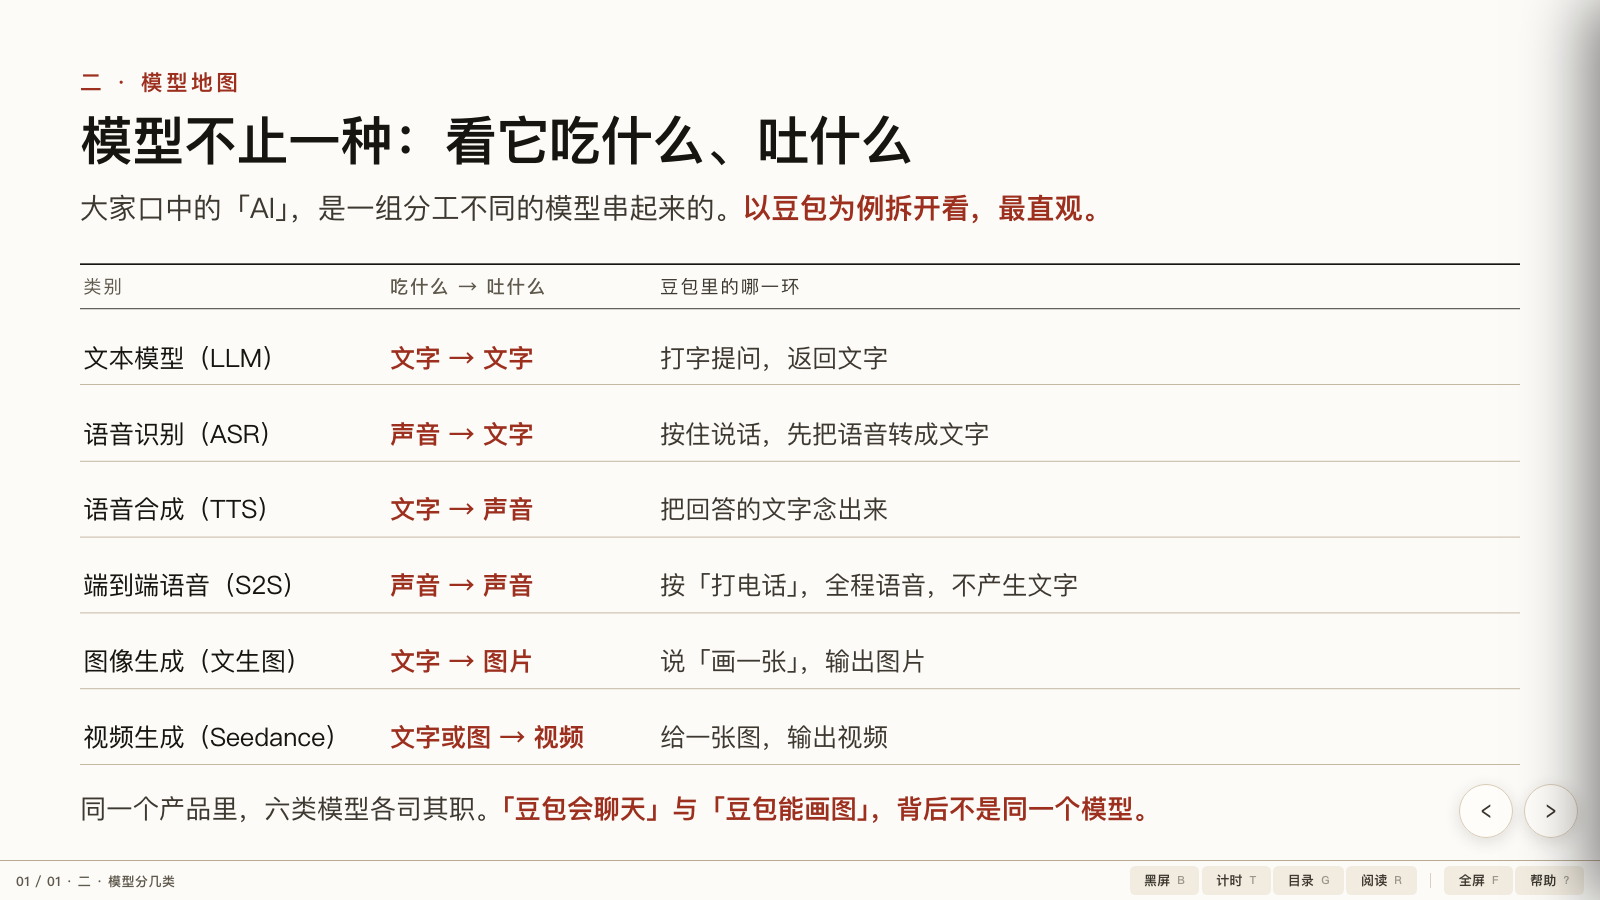
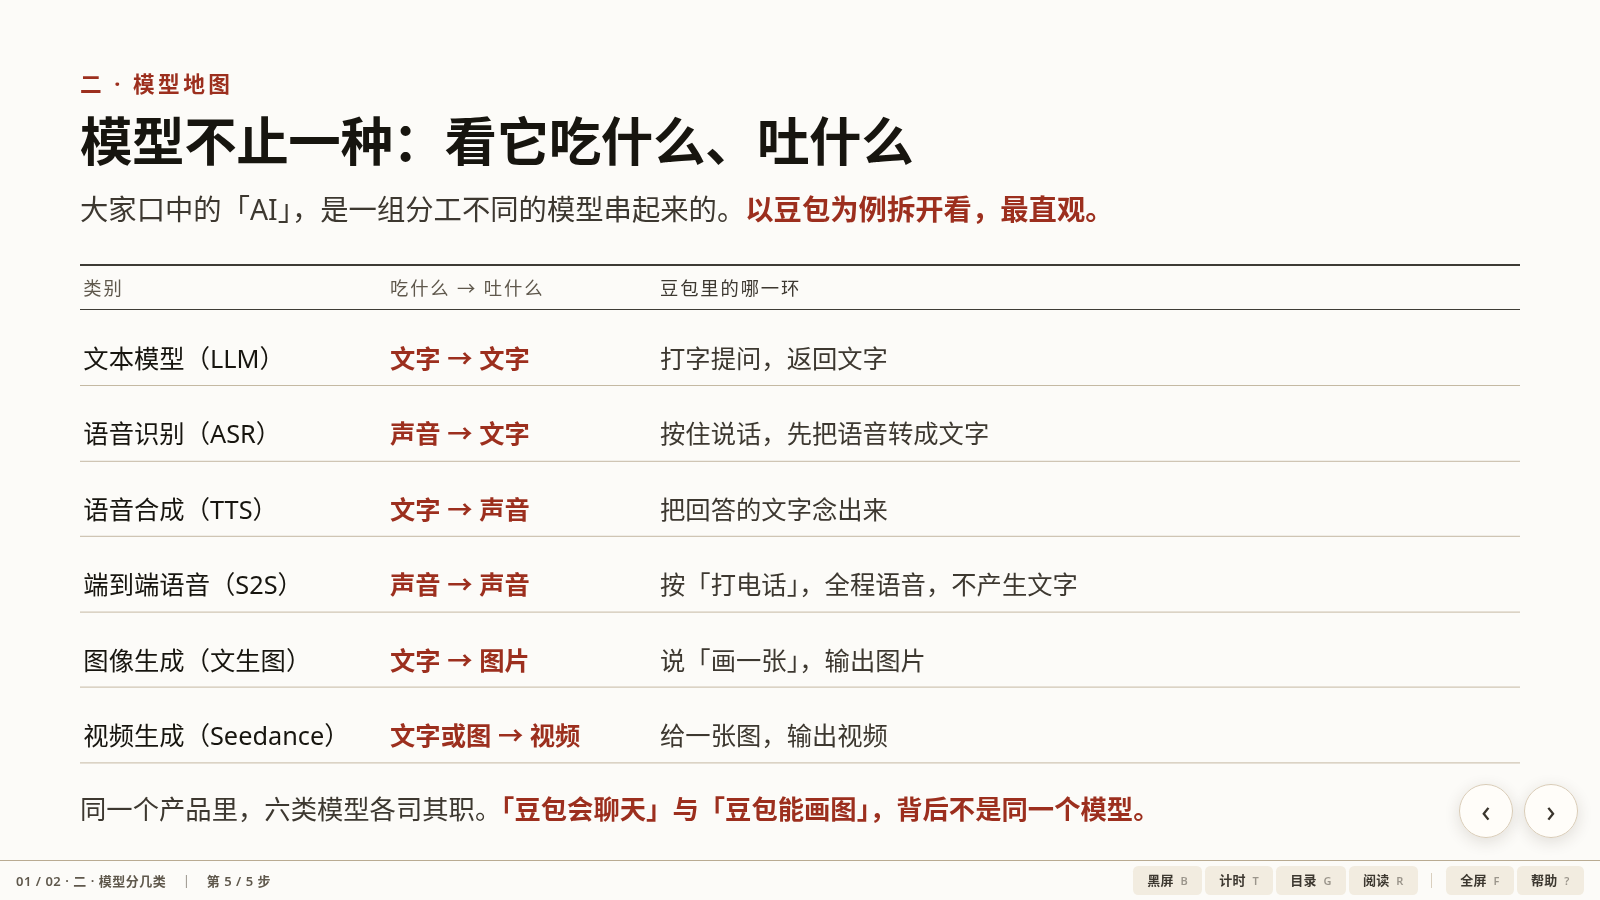
展示站：用修好的舞台壳重建 deck / showcase，换掉带阴影的 slides 截图

diff --git a/docs/deck.html b/docs/deck.html
@@ -410,8 +410,6 @@ html.read .tr.th{display:none}
   .face{transform:none!important;backface-visibility:visible}
   .face.back{display:none!important}
 }
-html.read .tr span:nth-child(2)::before{content:"是哪一层 · "}
-html.read .tr span:nth-child(3)::before{content:"该做什么 · "}
 html.read .layer .lb{max-height:none}
 html.read .cmp-wrap{display:flex!important;height:340px;margin-top:1.4rem}
 html.read .cmp{grid-template-columns:1fr;grid-template-rows:1fr 1fr}
@@ -943,12 +941,11 @@ html.read .qrcard{max-width:420px;margin:0 auto}
   position:fixed;right:0;top:0;bottom:0;width:560px;max-width:52vw;
   background:#15120f;color:var(--paper-soft-2);z-index:75;
   transform:translateX(102%);transition:transform .22s cubic-bezier(.3,.9,.3,1);
-  box-shadow:-24px 0 60px rgba(0,0,0,.5);
   display:flex;flex-direction:column;gap:14px;
   padding:34px 38px 24px;overflow:auto;
   font-family:"PingFang SC","Hiragino Sans GB",system-ui,sans-serif;
 }
-#spk.on{transform:none}
+#spk.on{transform:none;box-shadow:-24px 0 60px rgba(0,0,0,.5)}
 #spkClose{
   position:absolute;right:16px;top:14px;width:30px;height:30px;border:0;border-radius:50%;
   background:rgba(255,255,255,.1);color:#e6ddd0;font-size:17px;line-height:1;cursor:pointer;

diff --git a/docs/showcase.html b/docs/showcase.html
@@ -413,8 +413,6 @@ html.read .tr.th{display:none}
   .face{transform:none!important;backface-visibility:visible}
   .face.back{display:none!important}
 }
-html.read .tr span:nth-child(2)::before{content:"是哪一层 · "}
-html.read .tr span:nth-child(3)::before{content:"该做什么 · "}
 html.read .layer .lb{max-height:none}
 html.read .cmp-wrap{display:flex!important;height:340px;margin-top:1.4rem}
 html.read .cmp{grid-template-columns:1fr;grid-template-rows:1fr 1fr}
@@ -946,12 +944,11 @@ html.read .qrcard{max-width:420px;margin:0 auto}
   position:fixed;right:0;top:0;bottom:0;width:560px;max-width:52vw;
   background:#15120f;color:var(--paper-soft-2);z-index:75;
   transform:translateX(102%);transition:transform .22s cubic-bezier(.3,.9,.3,1);
-  box-shadow:-24px 0 60px rgba(0,0,0,.5);
   display:flex;flex-direction:column;gap:14px;
   padding:34px 38px 24px;overflow:auto;
   font-family:"PingFang SC","Hiragino Sans GB",system-ui,sans-serif;
 }
-#spk.on{transform:none}
+#spk.on{transform:none;box-shadow:-24px 0 60px rgba(0,0,0,.5)}
 #spkClose{
   position:absolute;right:16px;top:14px;width:30px;height:30px;border:0;border-radius:50%;
   background:rgba(255,255,255,.1);color:#e6ddd0;font-size:17px;line-height:1;cursor:pointer;
